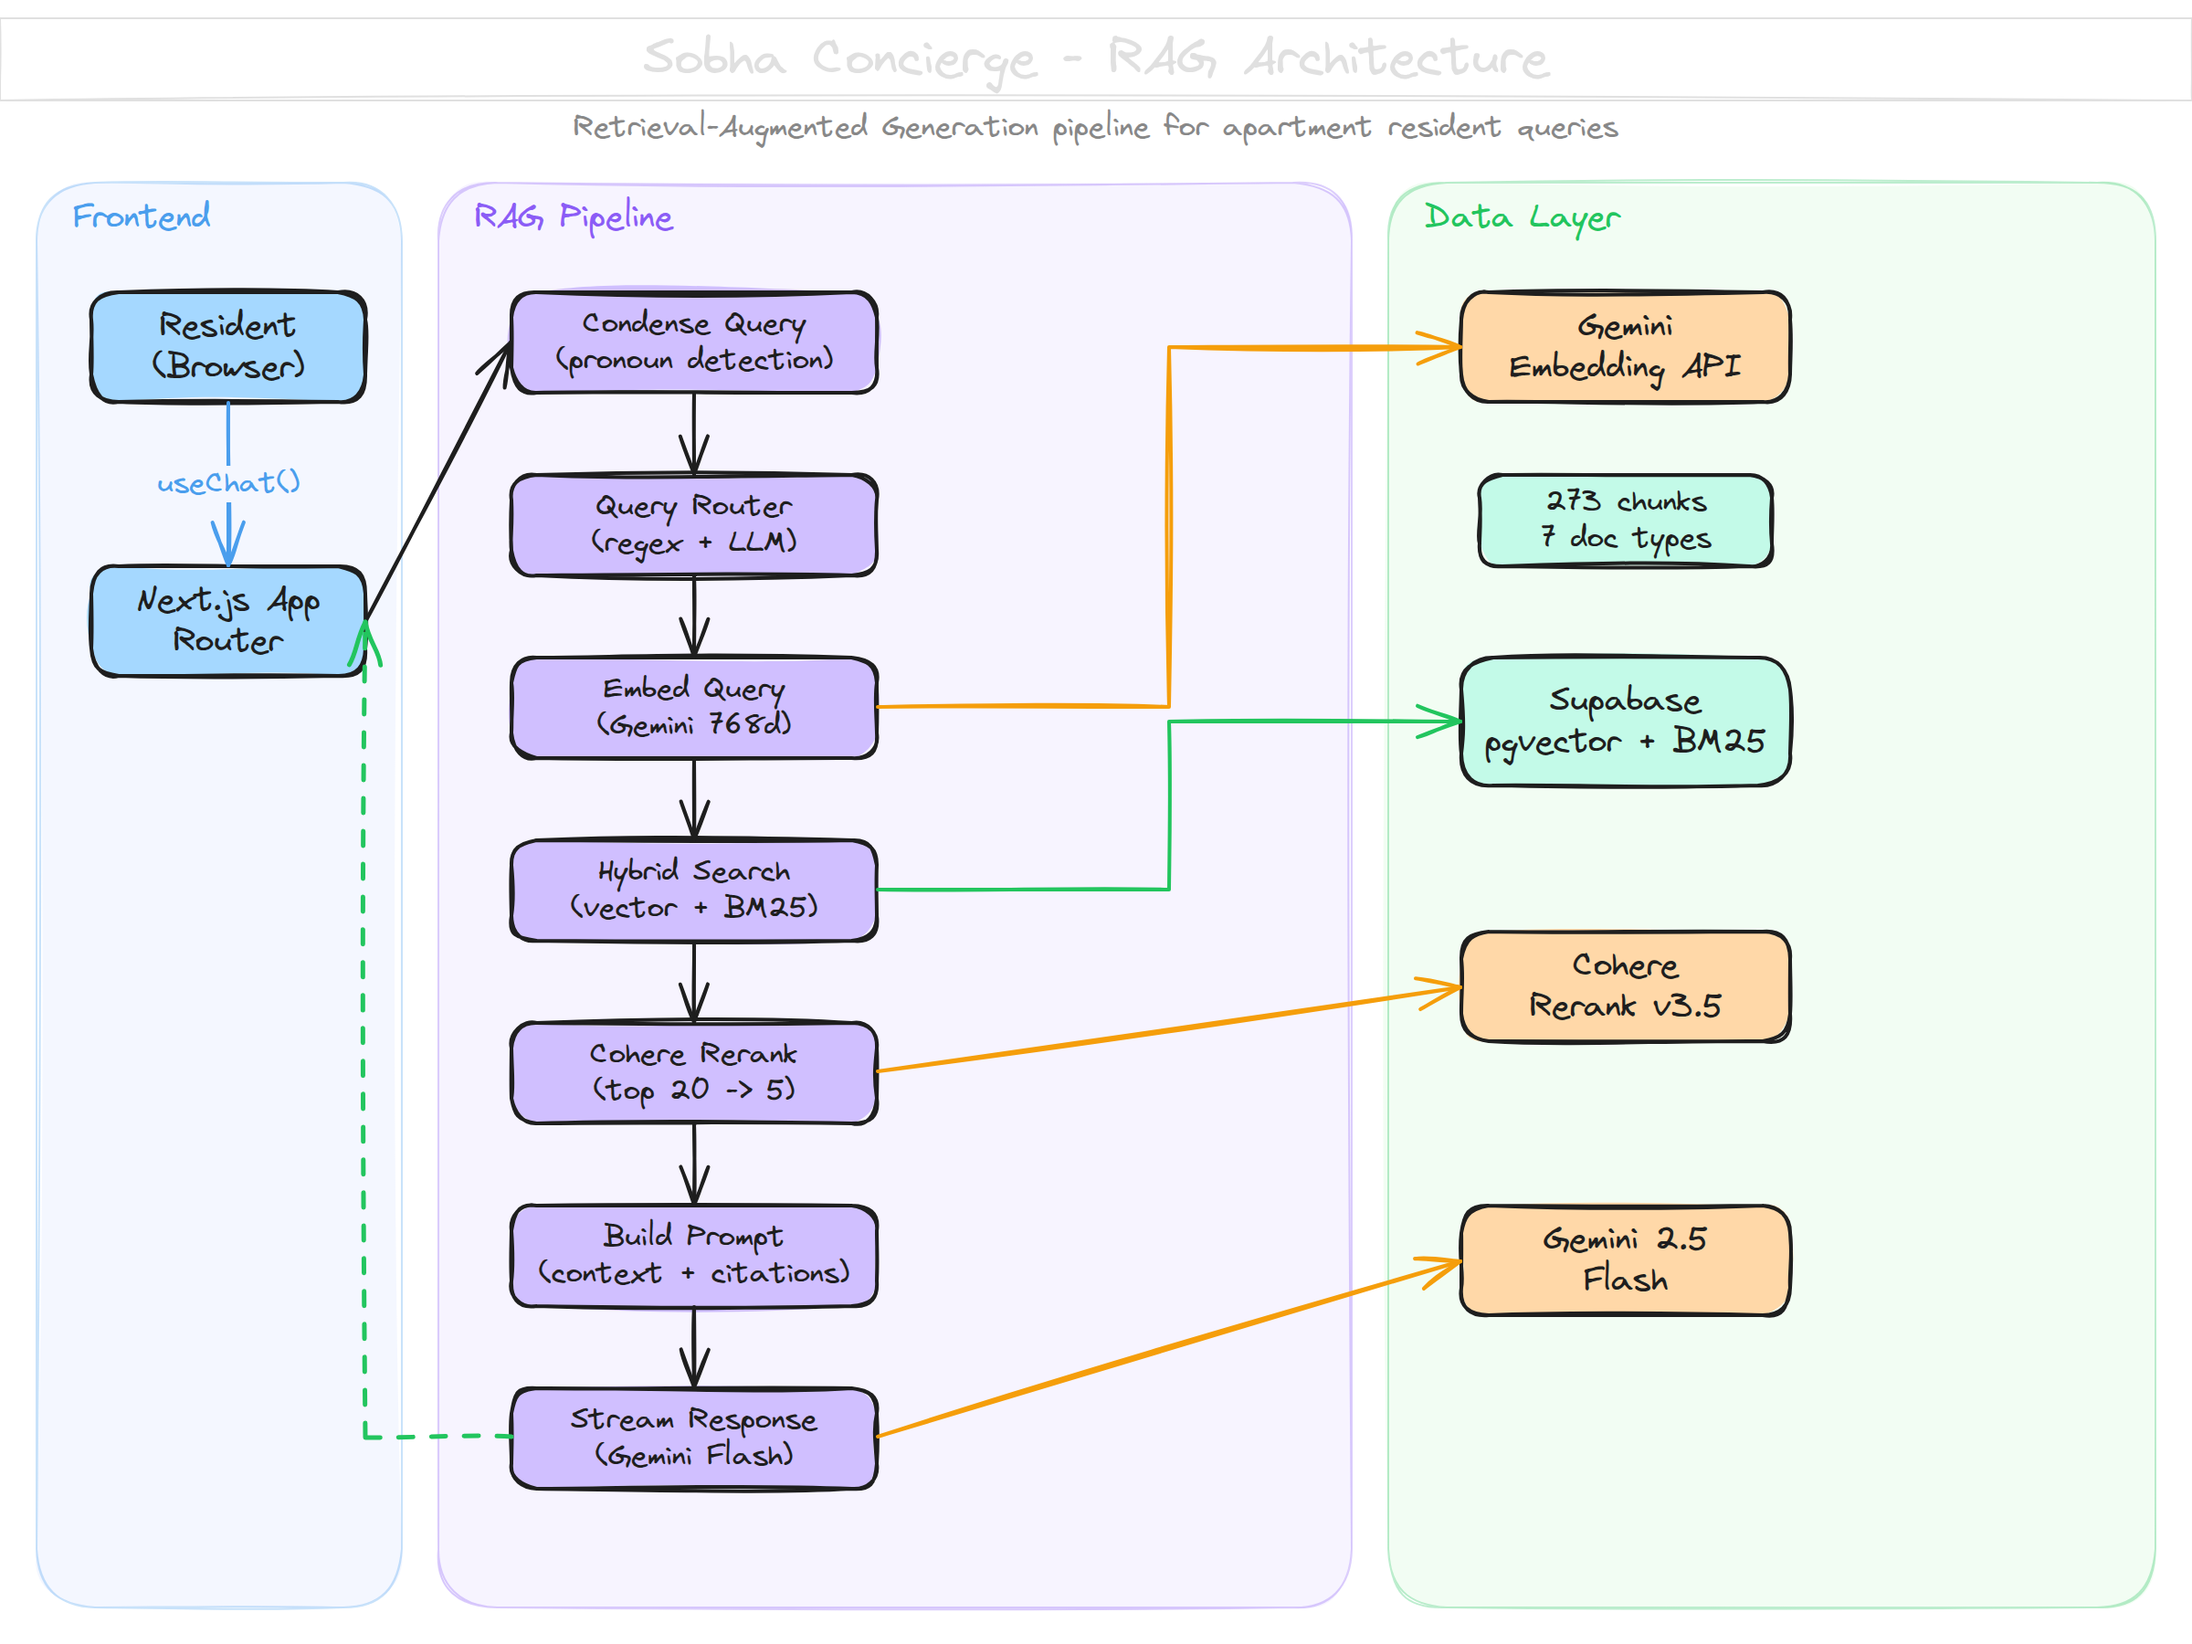
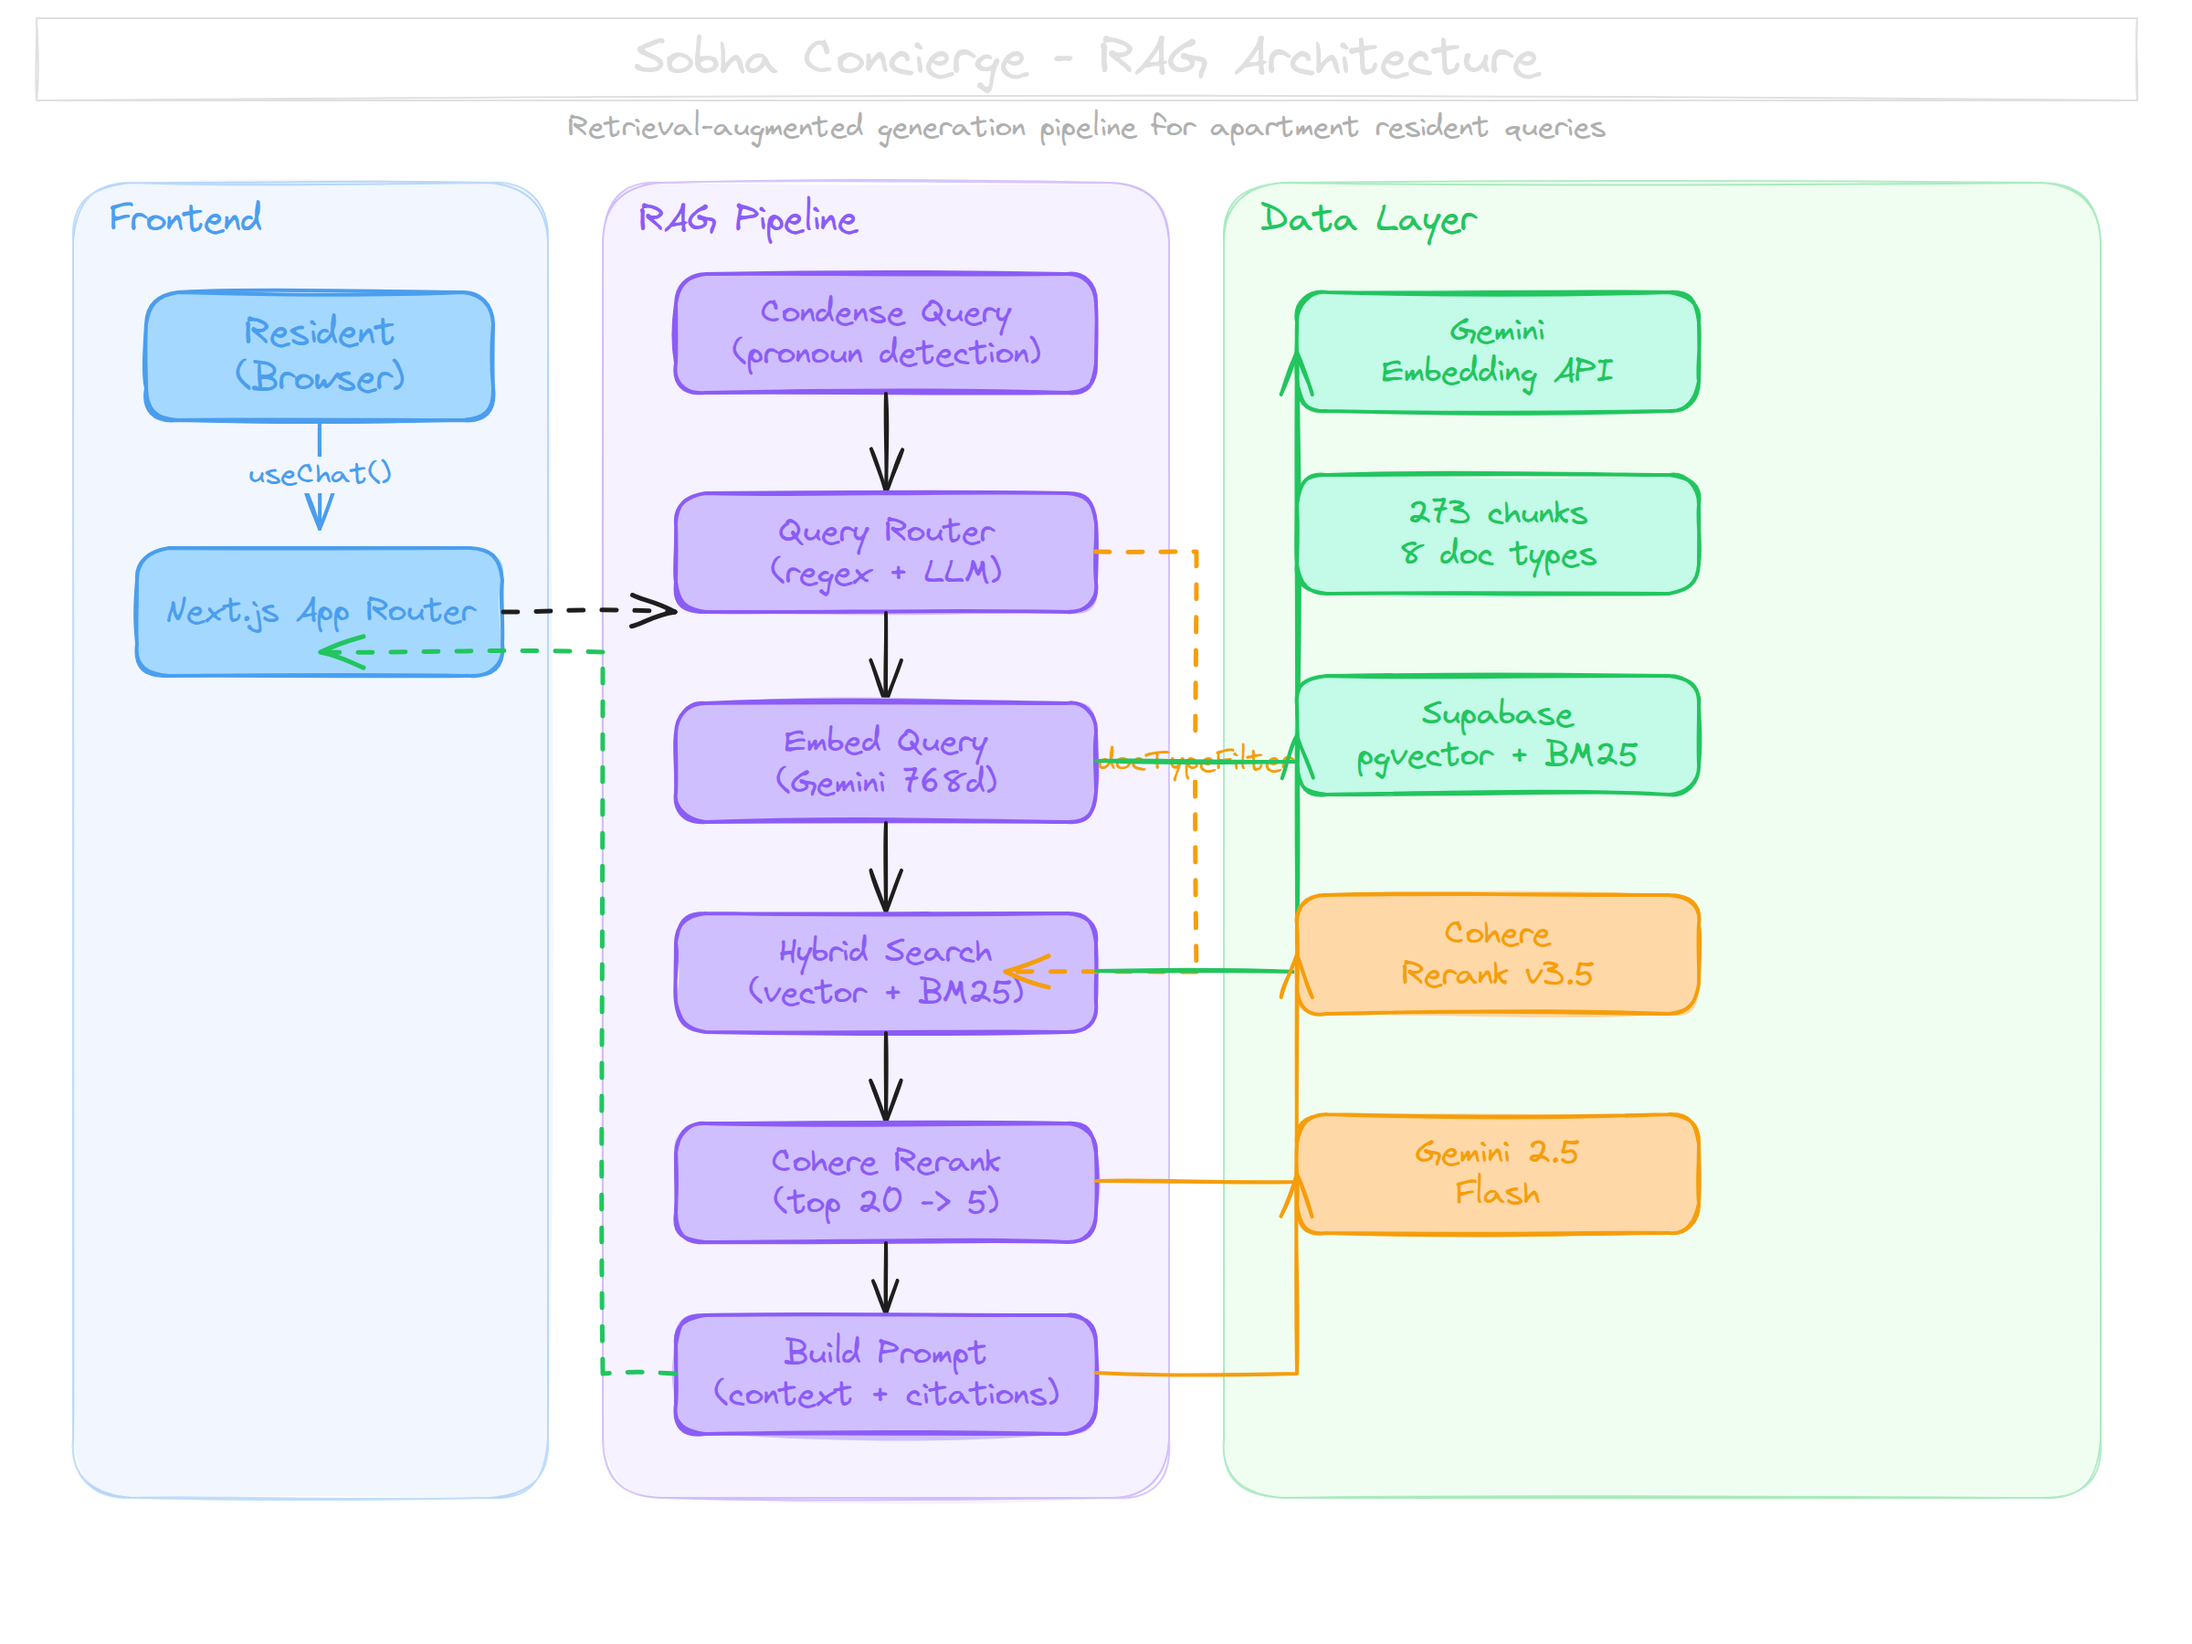
fix: correct diagram errors and README numbers
- Fix doc type count: 7 -> 8 across all diagrams
- Fix bylaws page count: 40 -> 44 in ingestion diagram
- Fix meeting count: 8 -> 11 in ingestion diagram and README
- Fix query routing: add LLM -> RouteResult arrow (was dead-end)
- Fix architecture: add docTypeFilter arrow from router to search
- Fix deed regex label: "deed|carpet area" -> "deed of declaration|carpet area"

Changed region(s): [[0.0312, 0.0, 0.8438, 0.9333], [0.1875, 0.0933, 0.2188, 0.1244]]

diff --git a/README.md b/README.md
@@ -38,7 +38,7 @@ Documents go through: PDF → Gemini Vision OCR → clean markdown → semantic 
 |---|---|---|
 | Bylaws | 128 | SIAOA Apartment Bylaws (44 pages) |
 | Deed | 78 | Deed of Declaration (93 pages) |
-| Minutes | 42 | 8 board meeting minutes |
+| Minutes | 42 | 11 board/EGM meeting minutes |
 | Act | 10 | Karnataka Apartment Ownership Act 1972 |
 | Certificate | 7 | BBMP Occupancy + Completion Certificates |
 | Penalties | 5 | SIAOA Penalties & Violations |
